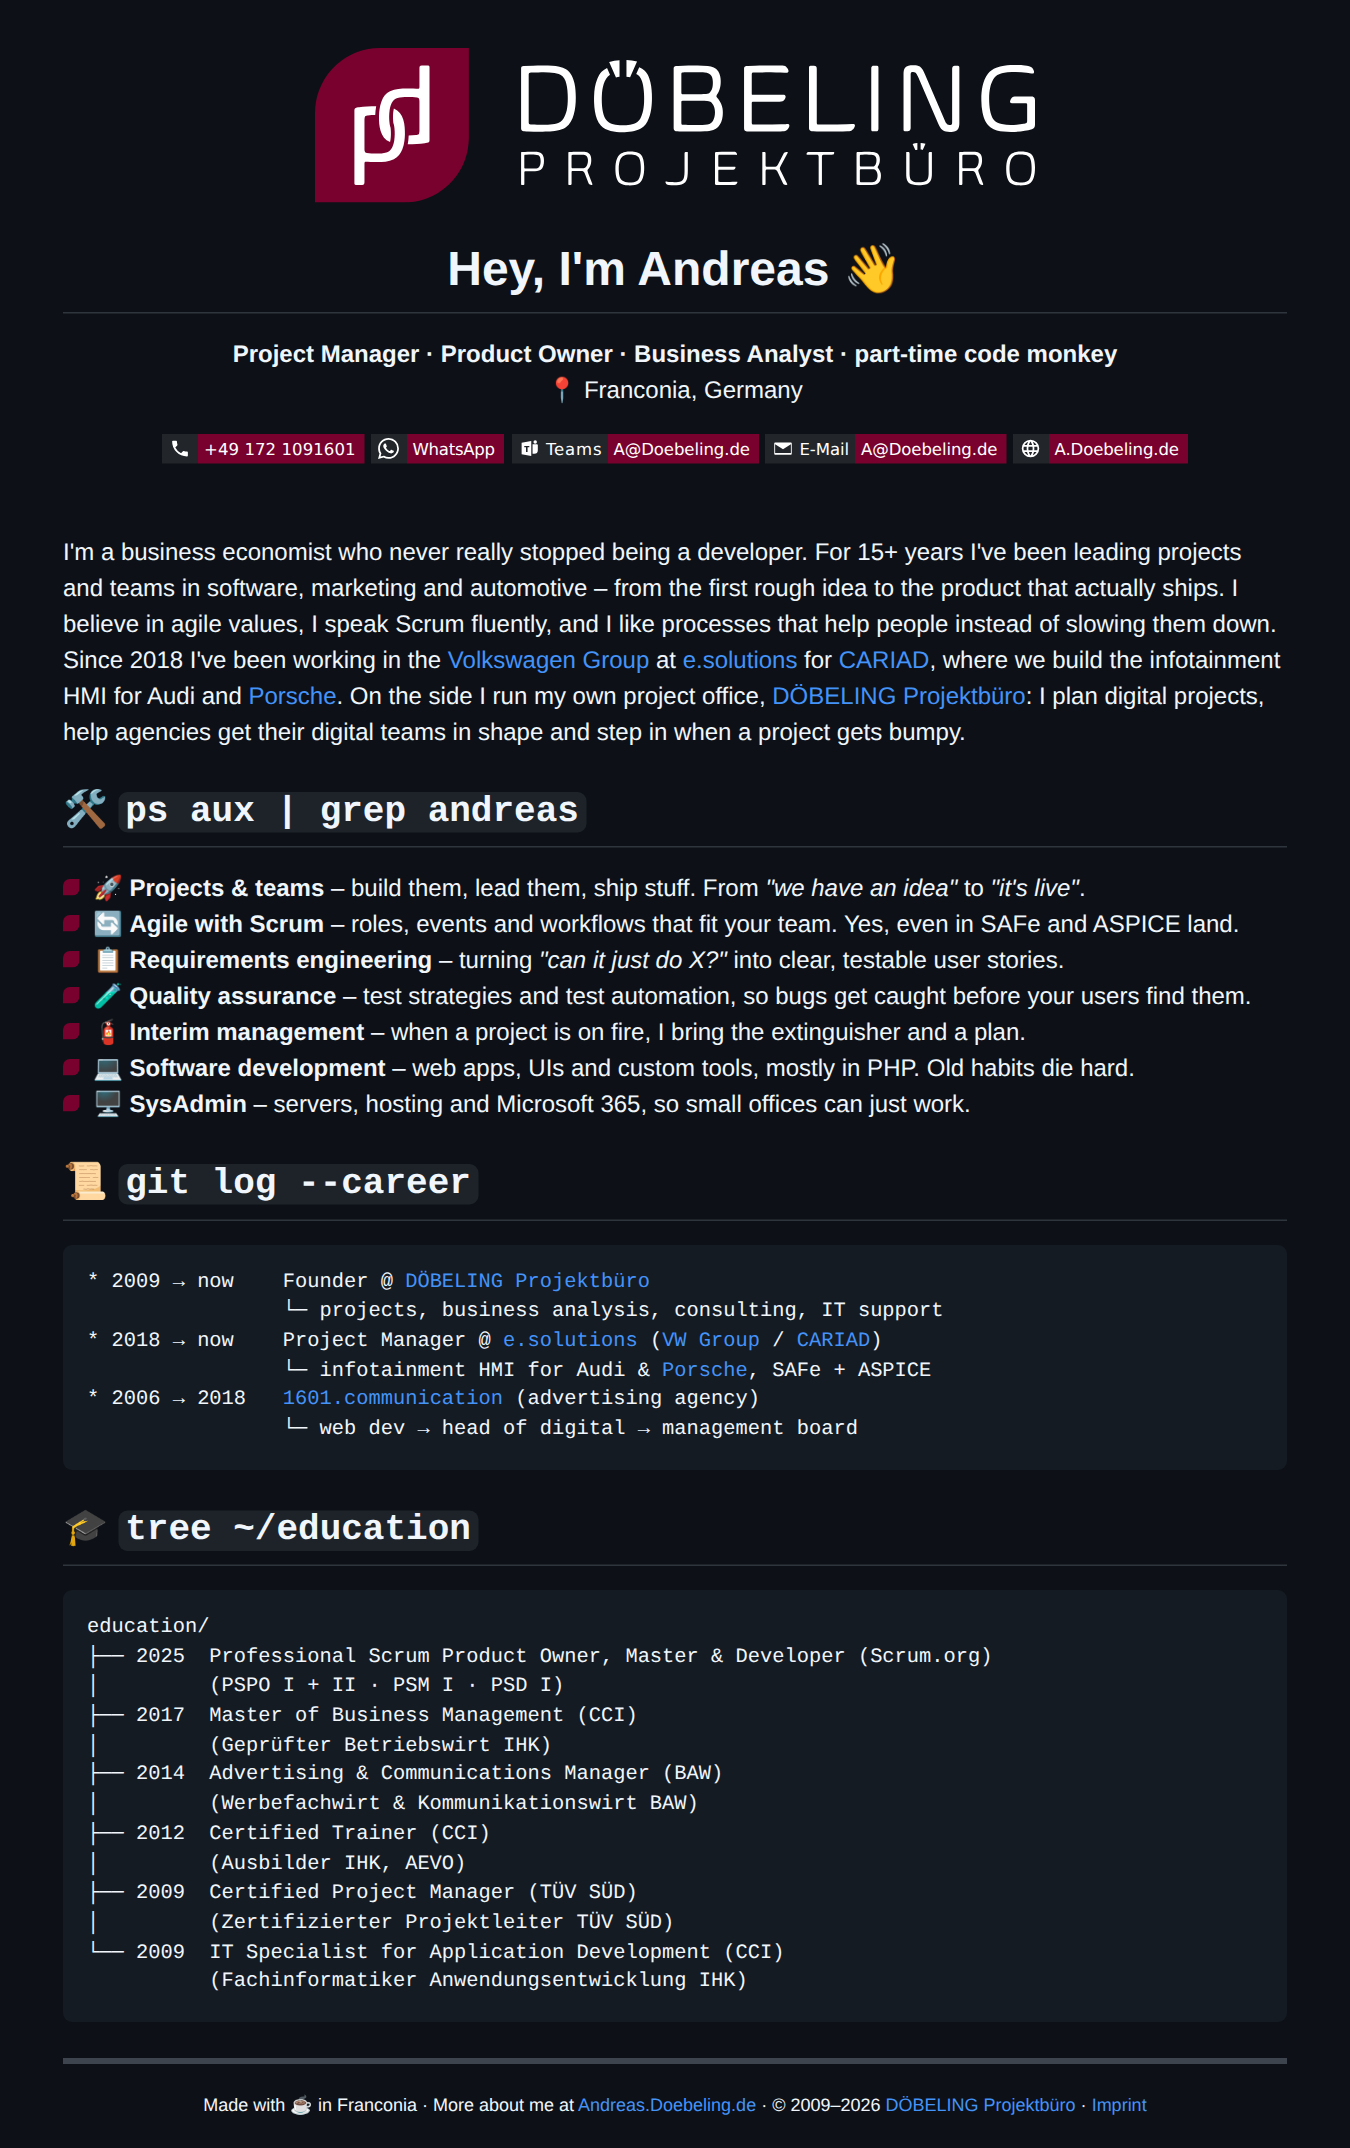
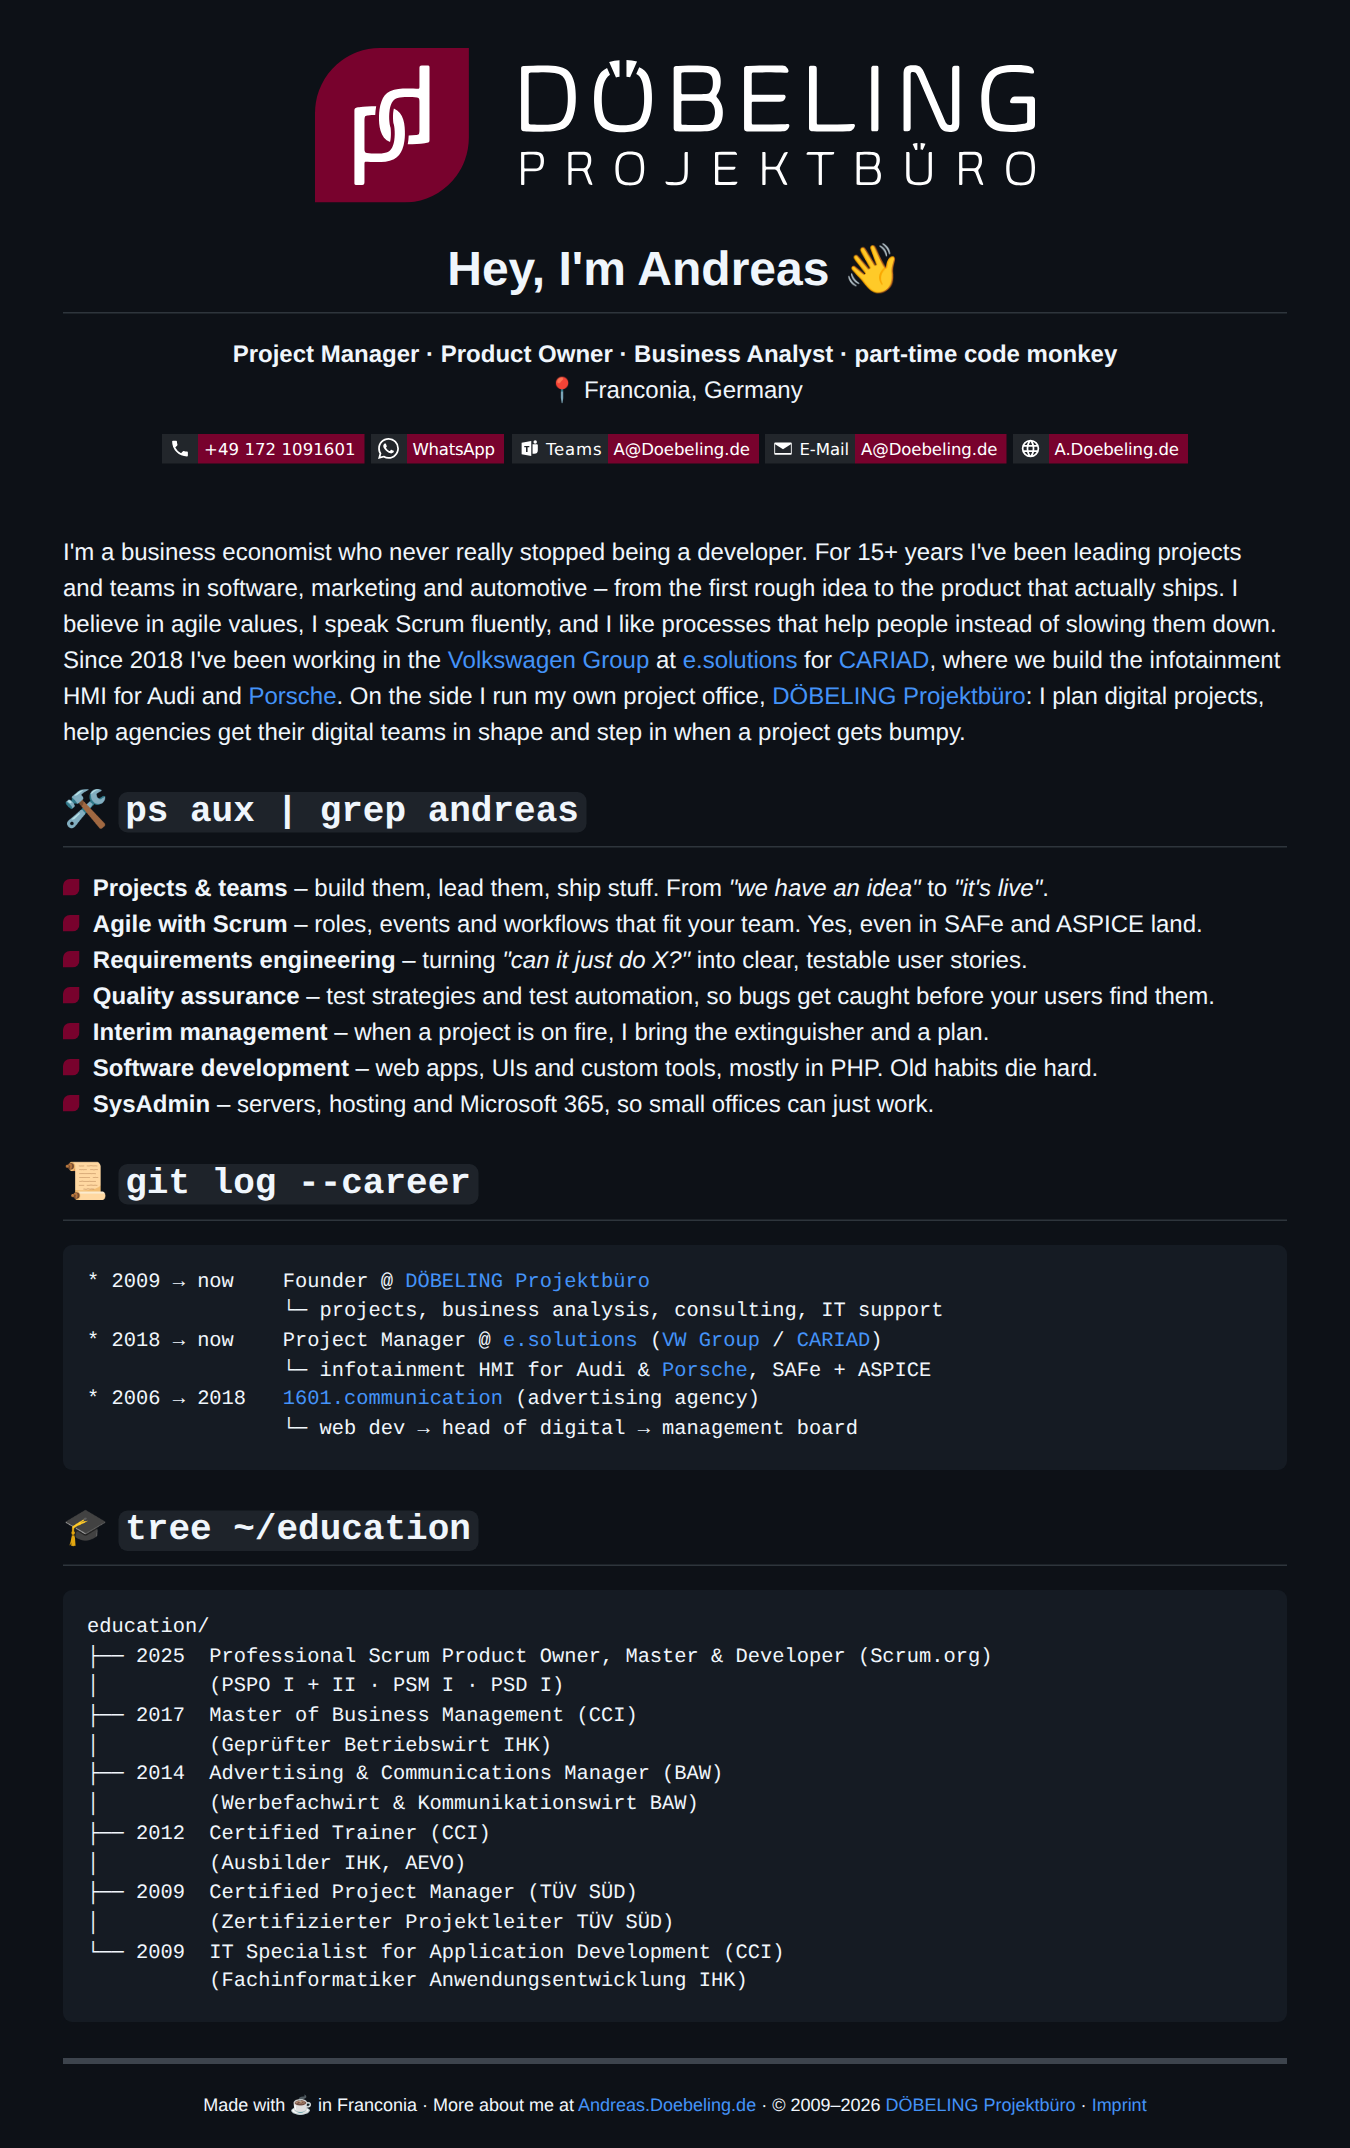
Remove emojis from "What I do" list

Changed region(s): [[0.0622, 0.4055, 0.9022, 0.5303]]

diff --git a/README.md b/README.md
@@ -28,13 +28,13 @@ I'm a business economist who never really stopped being a developer. For 15+ yea
 
 ## 🛠 `ps aux | grep andreas`
 
-<img src="https://raw.githubusercontent.com/DOEBELING/.github/main/assets/bullet.svg" width="11" alt="">&nbsp;&nbsp;🚀 **Projects & teams** – build them, lead them, ship stuff. From *"we have an idea"* to *"it's live"*.<br>
-<img src="https://raw.githubusercontent.com/DOEBELING/.github/main/assets/bullet.svg" width="11" alt="">&nbsp;&nbsp;🔄 **Agile with Scrum** – roles, events and workflows that fit your team. Yes, even in SAFe and ASPICE land.<br>
-<img src="https://raw.githubusercontent.com/DOEBELING/.github/main/assets/bullet.svg" width="11" alt="">&nbsp;&nbsp;📋 **Requirements engineering** – turning *"can it just do X?"* into clear, testable user stories.<br>
-<img src="https://raw.githubusercontent.com/DOEBELING/.github/main/assets/bullet.svg" width="11" alt="">&nbsp;&nbsp;🧪 **Quality assurance** – test strategies and test automation, so bugs get caught before your users find them.<br>
-<img src="https://raw.githubusercontent.com/DOEBELING/.github/main/assets/bullet.svg" width="11" alt="">&nbsp;&nbsp;🧯 **Interim management** – when a project is on fire, I bring the extinguisher and a plan.<br>
-<img src="https://raw.githubusercontent.com/DOEBELING/.github/main/assets/bullet.svg" width="11" alt="">&nbsp;&nbsp;💻 **Software development** – web apps, UIs and custom tools, mostly in PHP. Old habits die hard.<br>
-<img src="https://raw.githubusercontent.com/DOEBELING/.github/main/assets/bullet.svg" width="11" alt="">&nbsp;&nbsp;🖥 **SysAdmin** – servers, hosting and Microsoft 365, so small offices can just work.
+<img src="https://raw.githubusercontent.com/DOEBELING/.github/main/assets/bullet.svg" width="11" alt="">&nbsp;&nbsp;**Projects & teams** – build them, lead them, ship stuff. From *"we have an idea"* to *"it's live"*.<br>
+<img src="https://raw.githubusercontent.com/DOEBELING/.github/main/assets/bullet.svg" width="11" alt="">&nbsp;&nbsp;**Agile with Scrum** – roles, events and workflows that fit your team. Yes, even in SAFe and ASPICE land.<br>
+<img src="https://raw.githubusercontent.com/DOEBELING/.github/main/assets/bullet.svg" width="11" alt="">&nbsp;&nbsp;**Requirements engineering** – turning *"can it just do X?"* into clear, testable user stories.<br>
+<img src="https://raw.githubusercontent.com/DOEBELING/.github/main/assets/bullet.svg" width="11" alt="">&nbsp;&nbsp;**Quality assurance** – test strategies and test automation, so bugs get caught before your users find them.<br>
+<img src="https://raw.githubusercontent.com/DOEBELING/.github/main/assets/bullet.svg" width="11" alt="">&nbsp;&nbsp;**Interim management** – when a project is on fire, I bring the extinguisher and a plan.<br>
+<img src="https://raw.githubusercontent.com/DOEBELING/.github/main/assets/bullet.svg" width="11" alt="">&nbsp;&nbsp;**Software development** – web apps, UIs and custom tools, mostly in PHP. Old habits die hard.<br>
+<img src="https://raw.githubusercontent.com/DOEBELING/.github/main/assets/bullet.svg" width="11" alt="">&nbsp;&nbsp;**SysAdmin** – servers, hosting and Microsoft 365, so small offices can just work.
 
 ## 📜 `git log --career`
 
